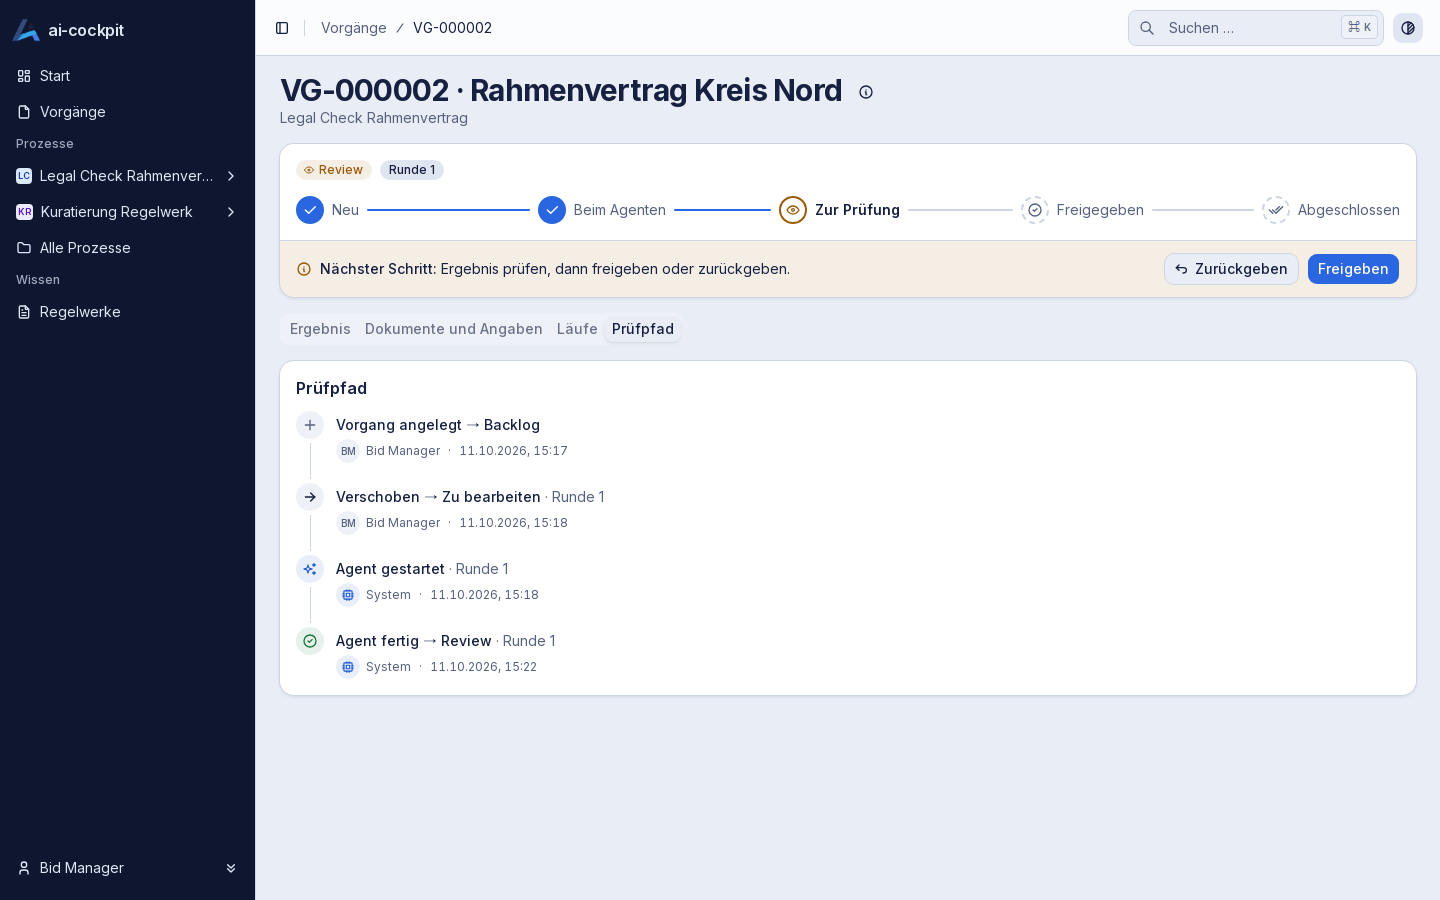
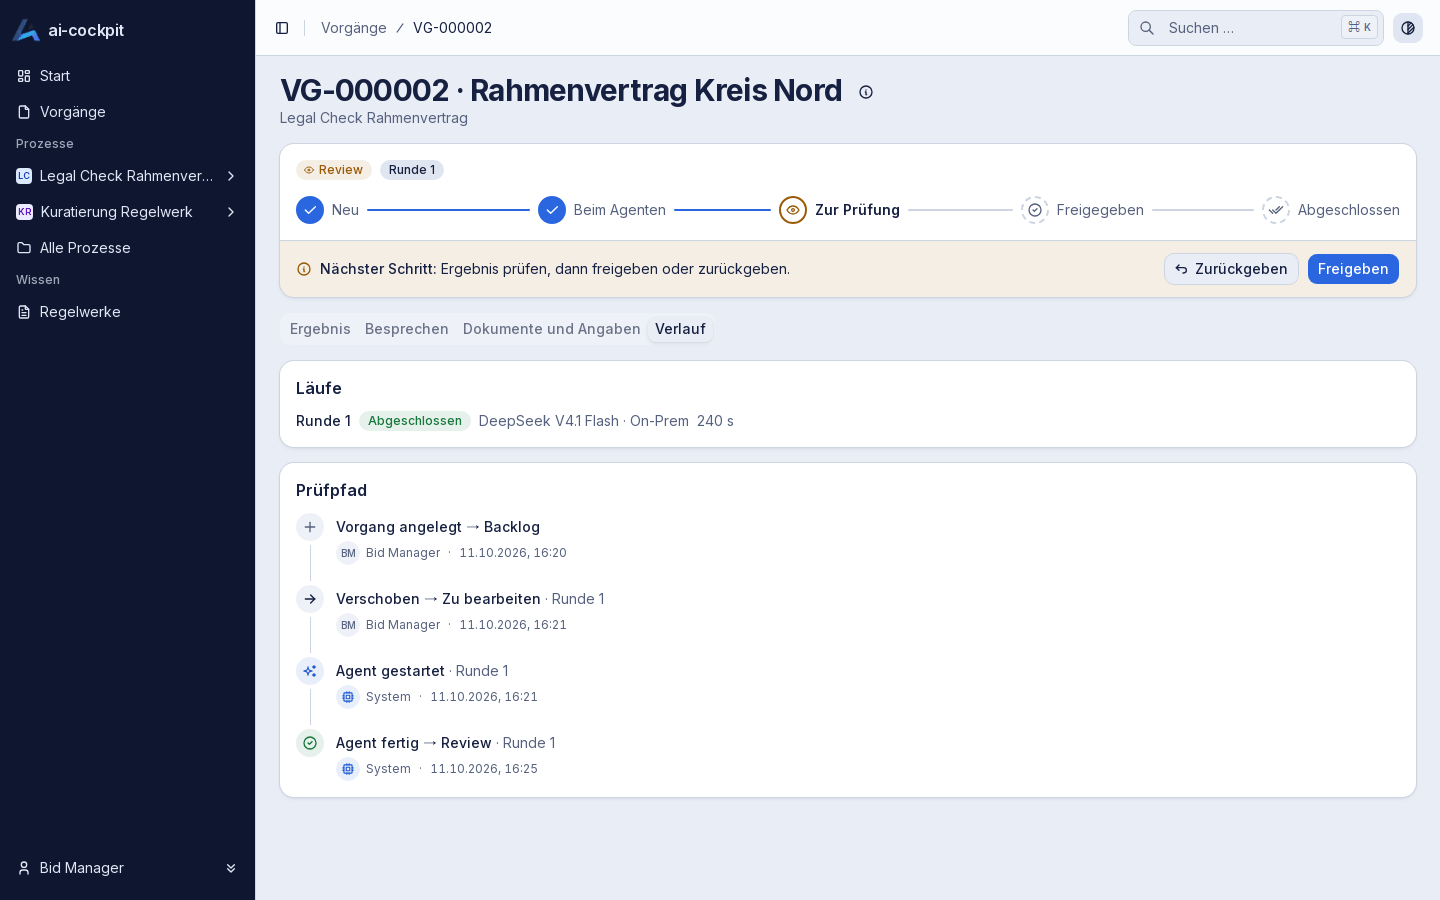
Screenshots after the history tab

Changed region(s): [[0.1875, 0.4044, 0.9688, 0.7778], [0.25, 0.3422, 0.5, 0.3733], [0.2188, 0.8089, 0.375, 0.8711]]

diff --git a/features.html b/features.html
@@ -117,7 +117,7 @@
           <figure>
           <div class="shot">
             <div class="shot-bar" aria-hidden="true"><i></i><i></i><i></i><span>ai-cockpit · Prüfpfad</span></div>
-            <img src="assets/img/audit.png" width="1440" height="900" loading="lazy" alt="Audit trail of a case as a timeline: created, moved, agent started, agent finished" />
+            <img src="assets/img/audit.png" width="1440" height="900" loading="lazy" alt="History of a case: its runs, and the audit trail as a timeline — created, moved, agent started, agent finished" />
           </div>
         </figure>
         </div>
